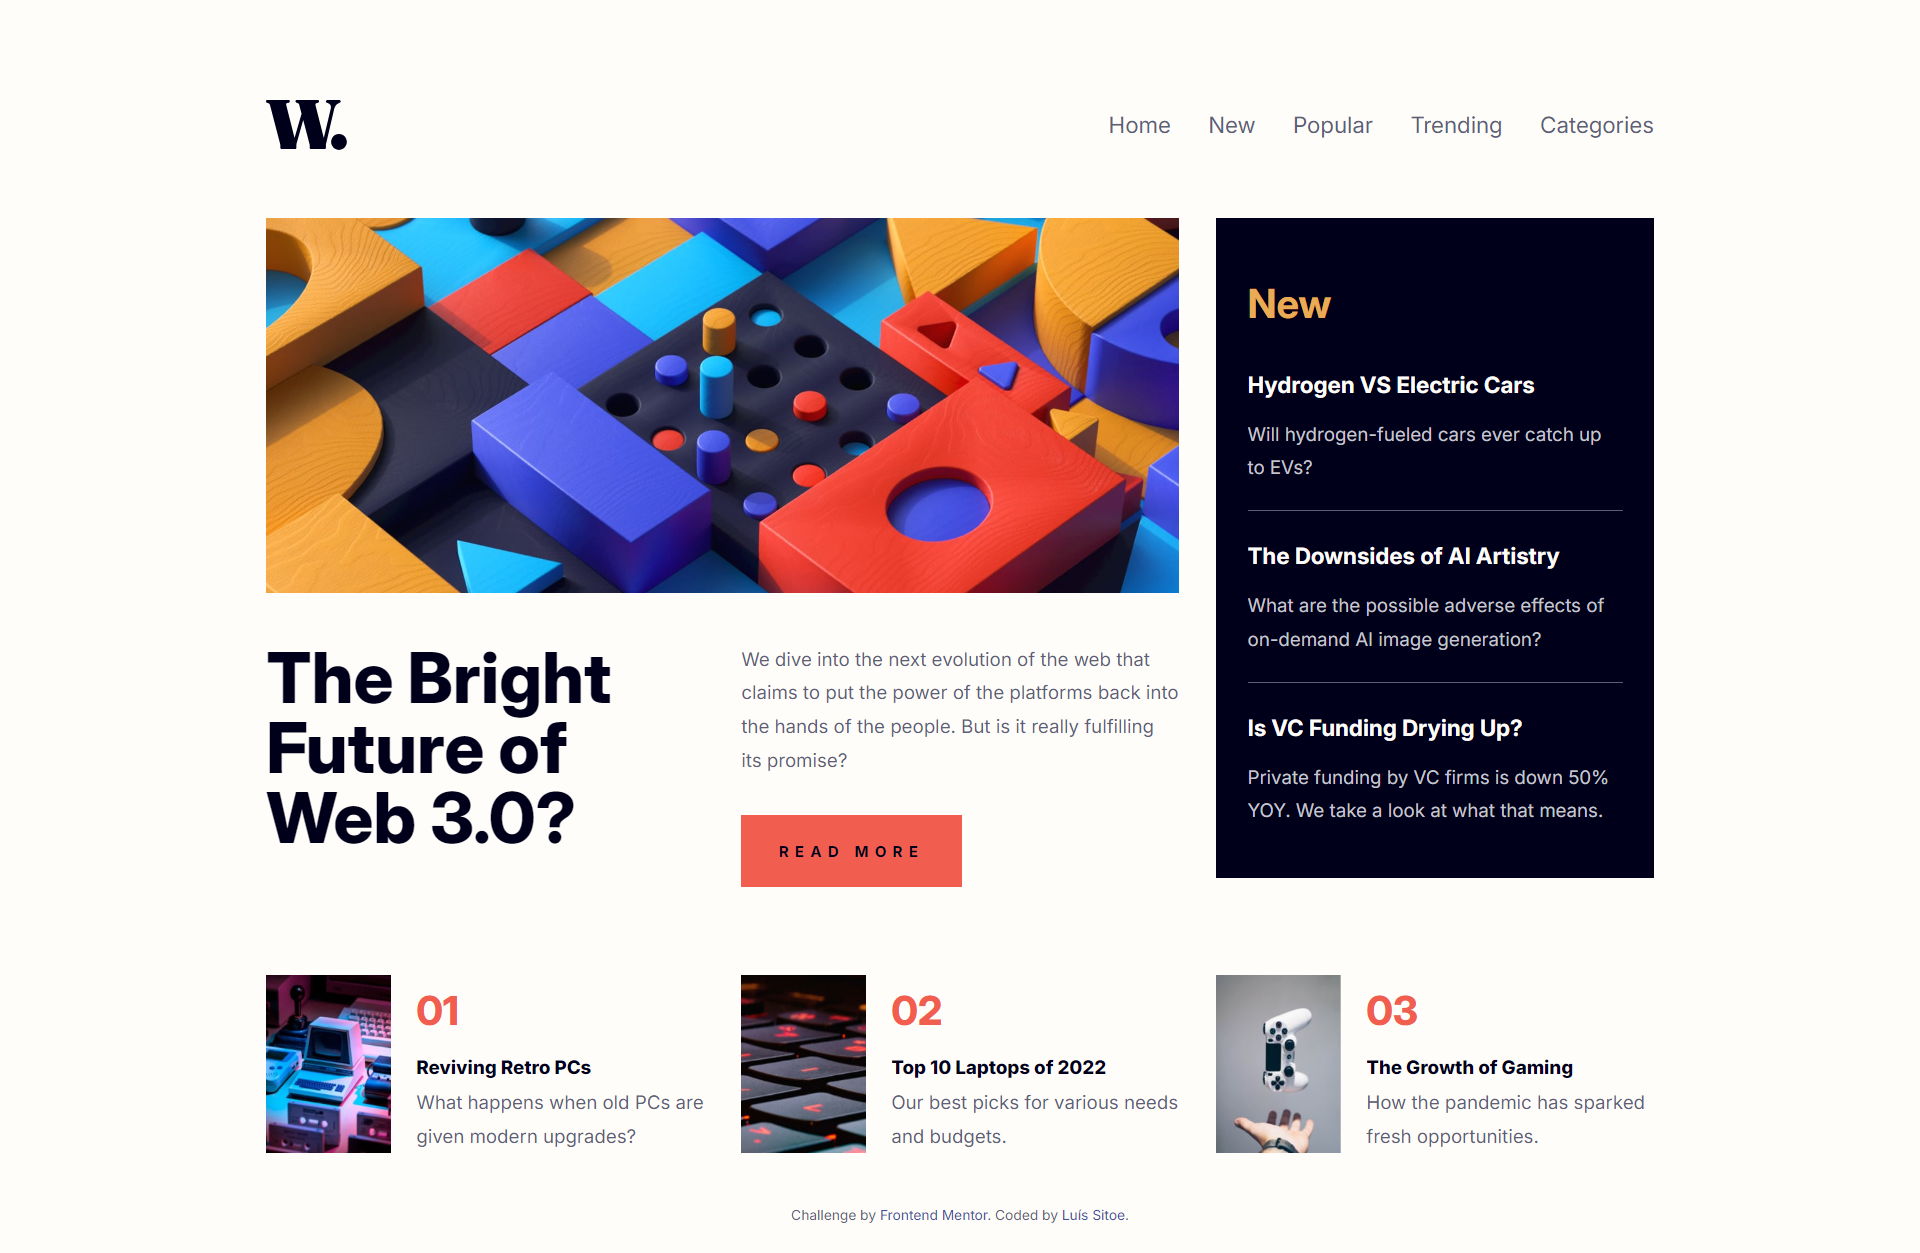
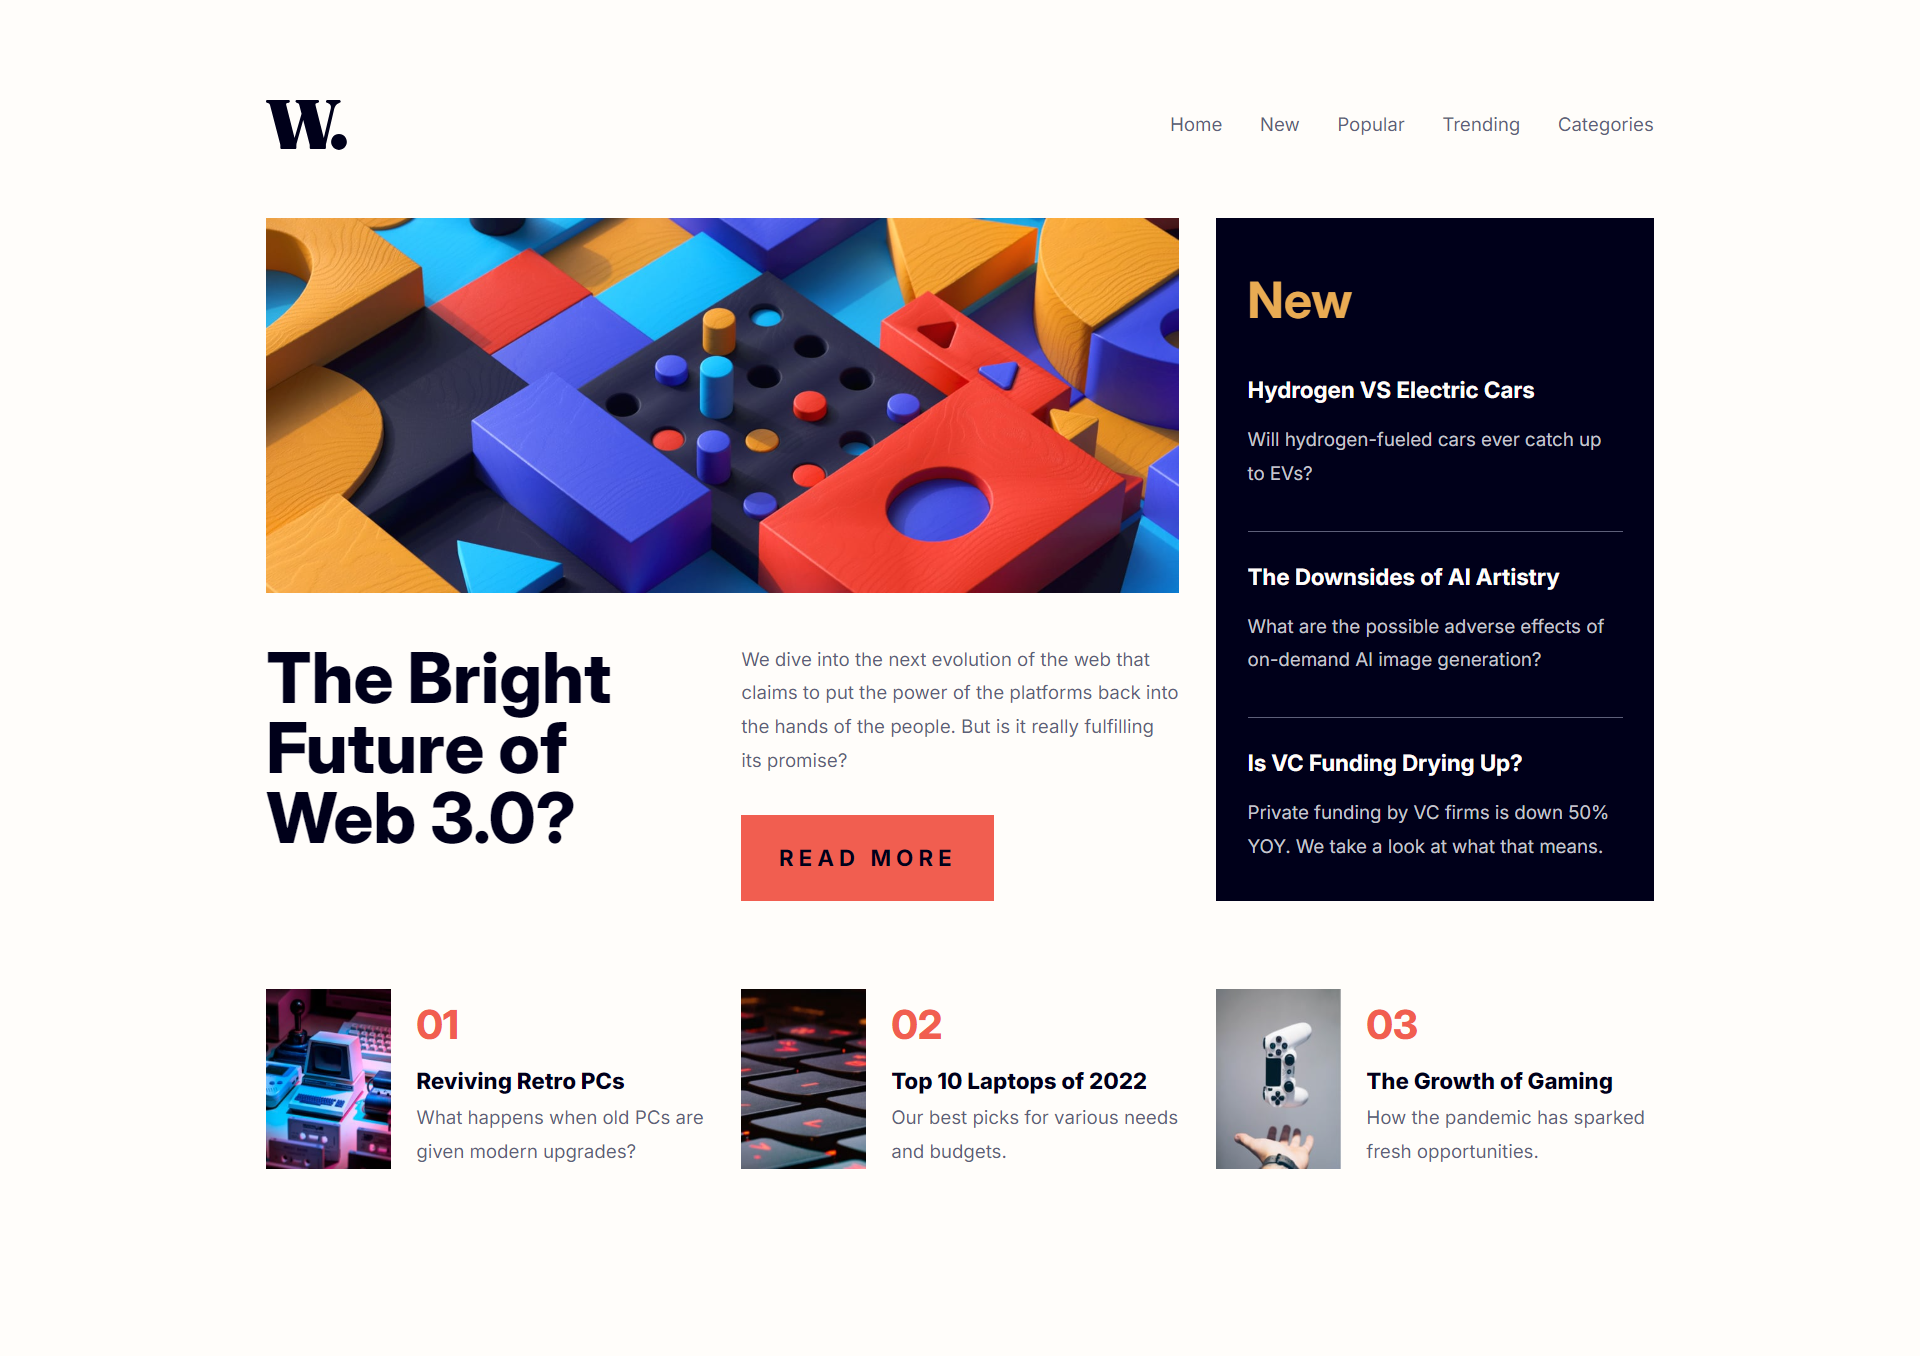
updated index.html, style.css and screenshot.png

diff --git a/assets/style.css b/assets/style.css
@@ -100,7 +100,6 @@ Header
 
 }
 
-
 .nav__menu.open {
     right: 0;
 }
@@ -172,11 +171,11 @@ Featured
     display: inline-block;
     background-color: var(--soft-red);
     padding: 1.8rem 3rem;
-    font-size: 1.2rem;;
+    font-size: var(--fs-medium);
     color: var(--very-dark-blue);
     font-weight: var(--fw-700);
     text-transform: uppercase;
-    letter-spacing: 5px;
+    letter-spacing: 4px;
     transition: background-color .4s ease-in;
 }
 
@@ -194,23 +193,24 @@ News
 
 .news__container {
     background-color: var(--very-dark-blue);
-    padding: 4rem 2.5rem;
+    padding: 3rem 2.5rem;
 }
 
 .news__item:not(:last-child) {
     margin-bottom: 2rem;
-    padding-bottom: 2rem;
+    padding-bottom: 3.2rem;
     border-bottom: 1px solid var(--dark-grayish-blue);
 }
 
 .news__title {
+    font-size: 4rem;
     color: var(--soft-orange);
     margin-bottom: 2rem;
 }
 
 .news__item-link {
     display: inline-block;
-    font-size: 1.6rem;
+    font-size: 2rem;
     color: var(--off-white);
     margin-bottom: 1rem;
     transition: color .4s ease-in;
@@ -221,7 +221,7 @@ News
 }
 
 .news__item-text {
-    font-size: 1.2rem;
+    font-size: var(--fs-medium);
     color: var(--grayish-blue);
 }
 
@@ -249,7 +249,7 @@ Articles
 
 .articles__item-link {
     display: inline-block;
-    font-size: var(--fs-base);
+    font-size: var(--fs-medium);
     font-weight: var(--fw-800);
     color: var(--very-dark-blue);
     transition: color .4s ease-in;
@@ -276,6 +276,7 @@ Media queries
     }
 
     .nav__link {
+        font-size: var(--fs-base);
         color: var(--dark-grayish-blue);
     }
 
@@ -317,10 +318,6 @@ Media queries
 
     .news {
         margin: 0;
-    }
-
-    .news__title {
-        font-size: var(--fs-large);
     }
 
     .news__item-link {

diff --git a/index.html b/index.html
@@ -16,7 +16,7 @@
         .footer {
             font-size: 11px;
             text-align: center;
-            padding: 2rem 0;
+            padding: 10rem 0 3rem 0;
         }
 
         .footer a {
